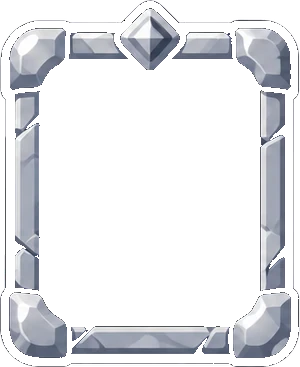
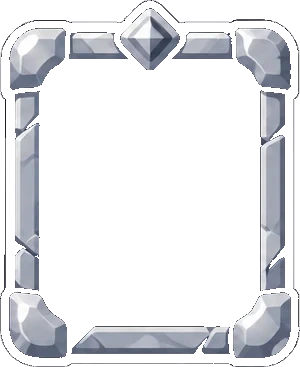
Shootingstar v12.9.1: calmer level-ups, clean skill cards
- Gems per level raised: first draft 18 -> 45 XP, then 45 + 14/level
  (one or two house gems no longer interrupt the fight)
- Evolve step n only after enhance step n: no evolution frame on the
  first level-up
- One part in two bays offers only the less grown bay; a draft never
  shows two cards with the same name; ready ultimates always show
- Card frames: white halo from the old cut recoloured to the outline,
  stray specks removed (tools/defringe_card_frames.py)
- Tests updated for the new XP curve and card rules

diff --git a/lib/game/weapon_growth.dart b/lib/game/weapon_growth.dart
@@ -214,9 +214,23 @@ extension WeaponGrowth on GameEngine {
 
   List<UpgradeChoice> growthChoices() {
     final out = <UpgradeChoice>[];
+    // v12.9 (user 2026-10-25: the same card twice in one draft): when one
+    // part sits in two bays, only the less grown bay is offered.
+    final offered = <String, String>{};
     for (final id in growthWeapons) {
       final key = planKey(id);
       if (key == null || ult(id) || dropOnlyGrowth(id)) continue;
+      if (enh(id) >= 3 && evo(id) >= 3) continue; // its ultimate always shows
+      final rival = offered[key];
+      if (rival == null || enh(id) + evo(id) < enh(rival) + evo(rival)) {
+        offered[key] = id;
+      }
+    }
+    for (final id in growthWeapons) {
+      final key = planKey(id);
+      if (key == null || ult(id) || dropOnlyGrowth(id)) continue;
+      final ready = enh(id) >= 3 && evo(id) >= 3;
+      if (!ready && offered[key] != id) continue;
       final plan = growthPlans[key]!;
       final e = enh(id), v = evo(id);
       // the same part can sit in two bays: say which one
@@ -248,7 +262,9 @@ extension WeaponGrowth on GameEngine {
           ),
         );
       }
-      if (v < 3) {
+      // an evolution step follows the enhance step of the same rank, so a
+      // fresh weapon starts on plain enhance cards (user 2026-10-25)
+      if (v < 3 && v < e) {
         out.add(
           UpgradeChoice(
             'evo|$id',

diff --git a/lib/game/ship_module_combat.dart b/lib/game/ship_module_combat.dart
@@ -698,7 +698,12 @@ extension ShipModuleCombat on GameEngine {
       );
     pool.shuffle(random);
     final fresh = pool.where((c) => !exclude.contains(c.id)).toList();
-    final picks = (fresh.isNotEmpty ? fresh : pool).take(3).toList();
+    // three different names: one weapon never fills two cards of a draft
+    final picks = <UpgradeChoice>[];
+    for (final c in fresh.isNotEmpty ? fresh : pool) {
+      if (picks.length == 3) break;
+      if (picks.every((p) => p.title != c.title)) picks.add(c);
+    }
     // a finished weapon's ultimate always shows up
     for (final ultimate in growth.where((c) => c.growth == 'ult')) {
       if (picks.contains(ultimate)) continue;
@@ -707,7 +712,13 @@ extension ShipModuleCombat on GameEngine {
     }
     // at least one weapon card in every draw
     if (!picks.any((c) => c.growth.isNotEmpty)) {
-      final weapons = growth.where((c) => !exclude.contains(c.id)).toList();
+      final weapons = growth
+          .where(
+            (c) =>
+                !exclude.contains(c.id) &&
+                picks.skip(1).every((p) => p.title != c.title),
+          )
+          .toList();
       if (weapons.isNotEmpty)
         picks[0] = weapons[random.nextInt(weapons.length)];
     }

diff --git a/test/weapon_growth_test.dart b/test/weapon_growth_test.dart
@@ -51,7 +51,9 @@ void main() {
   test('cards: enhance and evolve tracks, then a forced ultimate', () async {
     final g = await armed();
     final ids = g.growthChoices().map((c) => c.id).toSet();
-    expect(ids, containsAll(['enh|part:W1', 'evo|part:W3']));
+    // a fresh weapon starts on enhance cards; evolve n follows enhance n
+    expect(ids, containsAll(['enh|part:W1', 'enh|part:W3']));
+    expect(ids.where((id) => id.startsWith('evo|')), isEmpty);
     expect(ids, contains('paw:orbit')); // a new item attack
     // v12.4: bullets (main gun) and missiles grow only from field drops
     expect(ids.where((id) => id.endsWith('|gun')), isEmpty);
@@ -117,6 +119,9 @@ void main() {
       // the main gun and missiles grow from drops (v12.4), not from cards
       g.growthEnhance['part:W1'] = 3;
       g.growthEvolve['part:W1'] = 3;
+      // evolve cards need the enhance step of their rank first (v12.9)
+      g.growthEnhance['part:W3'] = 1;
+      g.growthEnhance['part:W4'] = 1;
       for (final set in [
         ['ult|part:W1', 'enh|part:W3', 'evo|part:W4'],
         ['paw:orbit', 'evo|part:W3', 'enh|part:W4'],

diff --git a/web/index.html b/web/index.html
@@ -37,7 +37,7 @@
 <body>
   <div id="art-loading" role="img" aria-label="슈팅스타" style="position:fixed;inset:0;background:#f08a3c url(splash.webp) center/cover no-repeat;color:#fff;display:flex;flex-direction:column;align-items:center;justify-content:flex-end;font:bold 18px sans-serif;text-shadow:0 2px 4px rgba(40,16,40,.8)">
     <p id="loading-message" style="margin:0 0 max(64px,calc(env(safe-area-inset-bottom) + 52px));padding:10px 22px;border-radius:999px;background:rgba(40,20,48,.55)">출격을 준비하는 중…</p>
-    <p id="loading-version" style="position:absolute;bottom:max(12px,env(safe-area-inset-bottom));margin:0;font-size:14px"><!-- build-version:start -->v12.9.0<!-- build-version:end --></p>
+    <p id="loading-version" style="position:absolute;bottom:max(12px,env(safe-area-inset-bottom));margin:0;font-size:14px"><!-- build-version:start -->v12.9.1<!-- build-version:end --></p>
   </div>
   <script>
     try {

diff --git a/test/combat_flow_test.dart b/test/combat_flow_test.dart
@@ -22,7 +22,7 @@ void main() {
   test(
     'skill selection gives a short contact grace period, then damage returns',
     () {
-      final g = createGame()..xp = 18;
+      final g = createGame()..xp = GameEngine.firstGrowthCost;
       g.crystals.add(ExperienceCrystal.at(g.position, 1));
       g.update(.01);
       g.chooseUpgrade(g.choices.first.id);
@@ -114,7 +114,7 @@ void main() {
   );
   test('early random skill sets always include an attack option without duplicates', () {
     for (int seed = 0; seed < 80; seed++) {
-      final g = createGame(seed: seed)..xp = 18;
+      final g = createGame(seed: seed)..xp = GameEngine.firstGrowthCost;
       g.crystals.add(ExperienceCrystal.at(g.position, 1));
       g.update(.01);
       expect(g.choices.length, 3);

diff --git a/lib/game/engine.dart b/lib/game/engine.dart
@@ -370,9 +370,15 @@ class GameEngine {
       hp = 100,
       maxHp = 100,
       xp = 0,
-      xpNeeded = 18;
+      xpNeeded = firstGrowthCost;
+
+  /// Gems needed per level (v12.9, user 2026-10-25: one or two gems opened
+  /// the cards and broke up the fight). An ordinary house gem is 7.2 and a
+  /// wiped formation drops 12, so the first draft takes about five gems and
+  /// later ones roughly half again as many as before.
+  static const firstGrowthCost = 45.0;
   static double growthCost(int level) =>
-      18 + level * 10 + math.pow(math.max(0, level - 8), 2) * 1.5;
+      45 + level * 14 + math.pow(math.max(0, level - 8), 2) * 1.5;
   int level = 1, kills = 0;
   double combatTime = 0, laserLife = 0, _laser = 0;
   double? firstEvolutionAt;

diff --git a/test/battle_resolution_test.dart b/test/battle_resolution_test.dart
@@ -188,8 +188,9 @@ void main() {
   test('magnet arrivals continue during final destruction and count in result level', () {
     final g = arena();
     g.xpNeeded = 10;
+    // 48 gems of 2: level 2 at 10, level 3 at growthCost(2), rest banked
     g.crystals.addAll(
-      List.generate(30, (i) => g.position + Offset(200, -100.0 - i)),
+      List.generate(48, (i) => g.position + Offset(200, -100.0 - i)),
     );
     g.supplies.add(Supply(g.position, 1));
     g.update(.001);
@@ -199,7 +200,7 @@ void main() {
     expect(g.finished, true);
     expect(g.absorbingCrystals, isEmpty);
     expect(g.level, 3);
-    expect(g.xp, 12);
+    expect(g.xp, closeTo(96 - 10 - GameEngine.growthCost(2), 1e-9));
     expect(g.choices, isEmpty);
   });
 }

diff --git a/test/run_pacing_test.dart b/test/run_pacing_test.dart
@@ -50,7 +50,14 @@ void main() {
       saved.update(.025);
     }
     expect(saved.level, 3);
-    expect(saved.xp, greaterThan(900)); // Excess XP stays banked.
+    // Excess XP stays banked.
+    expect(
+      saved.xp,
+      closeTo(
+        1001 - GameEngine.firstGrowthCost - GameEngine.growthCost(2),
+        1e-6,
+      ),
+    );
     // Saves from before v12.5.2 still carry the retired growth clock.
     final legacy = g.checkpoint();
     (legacy['state'] as Map)['nextGrowthAt'] = 42.0;

diff --git a/test/world_resume_test.dart b/test/world_resume_test.dart
@@ -159,7 +159,7 @@ void main() {
     },
   );
   test('pending growth choices and reroll RNG survive', () {
-    final a = arena()..xp = 18;
+    final a = arena()..xp = GameEngine.firstGrowthCost;
     // v12.4.1: the draft opens on the frame a gem reaches the cat
     a.crystals.add(ExperienceCrystal.at(a.position, 1));
     a.update(.01);

diff --git a/lib/app_version.dart b/lib/app_version.dart
@@ -1,6 +1,6 @@
 // Generated by tools/sync_version.py from pubspec.yaml. Do not edit.
 abstract final class AppVersion {
-  static const name = '12.9.0';
-  static const build = '114';
-  static const label = 'v12.9.0';
+  static const name = '12.9.1';
+  static const build = '115';
+  static const label = 'v12.9.1';
 }

diff --git a/tools/defringe_card_frames.py b/tools/defringe_card_frames.py
@@ -1,0 +1,80 @@
+"""Clean the skill card frames' edges (v12.9, user 2026-10-25: frame edges
+looked ragged). The frames were cut from a white background, so their soft
+outer edge still carries a light halo and a few stray specks. Every frame has
+a thick dark outline, so a light semi-transparent edge pixel is recoloured to
+that outline colour, and pieces far smaller than the frame are dropped.
+
+Run: python tools/defringe_card_frames.py   (originals are kept in
+.local/cards_frames_backup/ the first time)
+"""
+import pathlib
+import shutil
+
+from PIL import Image
+
+ROOT = pathlib.Path(__file__).resolve().parents[1]
+ART = ROOT / 'assets/art/cards_v13'
+BACKUP = ROOT / '.local/cards_frames_backup'
+OUTLINE = (22, 18, 30)
+
+
+def components(px, w, h):
+    seen = bytearray(w * h)
+    for start in range(w * h):
+        if seen[start] or px[start % w, start // w][3] < 24:
+            continue
+        seen[start] = 1
+        stack, members = [start], []
+        while stack:
+            i = stack.pop()
+            members.append(i)
+            x, y = i % w, i // w
+            for nx in (x - 1, x, x + 1):
+                for ny in (y - 1, y, y + 1):
+                    j = ny * w + nx
+                    if 0 <= nx < w and 0 <= ny < h and not seen[j] \
+                            and px[nx, ny][3] >= 24:
+                        seen[j] = 1
+                        stack.append(j)
+        yield members
+
+
+def clean(path: pathlib.Path) -> tuple[int, int]:
+    im = Image.open(path).convert('RGBA')
+    w, h = im.size
+    px = im.load()
+    pieces = sorted(components(px, w, h), key=len, reverse=True)
+    dropped = 0
+    for piece in pieces[1:]:
+        if len(piece) < 400:
+            for i in piece:
+                px[i % w, i // w] = (0, 0, 0, 0)
+            dropped += len(piece)
+    recoloured = 0
+    for y in range(h):
+        for x in range(w):
+            r, g, b, a = px[x, y]
+            if a == 0:
+                continue
+            if a < 24:
+                px[x, y] = (0, 0, 0, 0)
+            elif a < 250 and min(r, g, b) > 120:
+                # light halo left from the white background
+                px[x, y] = (*OUTLINE, a)
+                recoloured += 1
+    im.save(path, 'WEBP', quality=94, alpha_quality=100, method=6)
+    return recoloured, dropped
+
+
+def main() -> None:
+    BACKUP.mkdir(parents=True, exist_ok=True)
+    for t in range(1, 7):
+        path = ART / f'frame_{t}.webp'
+        if not (BACKUP / path.name).exists():
+            shutil.copy2(path, BACKUP / path.name)
+        shutil.copy2(BACKUP / path.name, path)
+        print(path.name, *clean(path))
+
+
+if __name__ == '__main__':
+    main()

diff --git a/docs/GAME_DIRECTION.md b/docs/GAME_DIRECTION.md
@@ -1,3 +1,5 @@
+2026-10-25 v12.9.1 사용자 요청(레벨업): 보석 한두 개로 레벨업 창이 떠 전투를 끊었다. 필요 경험치를 첫 레벨 18→45, 이후 `45 + 레벨×14 + 8레벨 초과분² ×1.5`로 올렸다(`GameEngine.growthCost`, 집 보석 7.2·편대 전멸 12 기준 첫 레벨 약 보석 5개). 카드: 진화 n단계는 같은 무기의 강화 n단계 뒤에만 나온다(첫 레벨업부터 진화 액자 금지). 같은 부품이 두 칸에 달려 있으면 덜 자란 칸만, 한 번의 뽑기에서 같은 이름 카드는 한 장만 나온다. 액자 그림의 흰 잔여 테두리는 `tools/defringe_card_frames.py`로 정리했다.
+
 2026-10-25 v12.9.0 사용자 확정(세계관): 인간과 고양이는 대화를 섞지 않는다. 인간이 고양이에게 도움을 청하는 표현은 금지이며, 모든 스토리·대사·집 소개는 고양이가 집사들을 몰래 돌보는 늬앙스(고양이 화자)로 쓴다. 상세: `CONCEPT_GUARDIAN_CATS.md` 2.5.
 
 2026-10-25 v12.4.3 사용자 지시(우선): 결과창·일시정지와 로비 화면은 페이지 넘김·스크롤 없이 한 페이지다. 꼭 알아야 할 정보만 화면에 두고, 규칙·긴 설명·세부 내역은 팝업(앱바 ?/‘자세히’/‘보상’ 버튼)으로 연다. 이전의 ‘긴 내용은 GamePages로 나눈다’ 지침보다 이 지시가 우선한다. 반복 항목 목록 안의 이동만 예외. 상세: `V12_4_3_ONE_PAGE_UI.md`.
